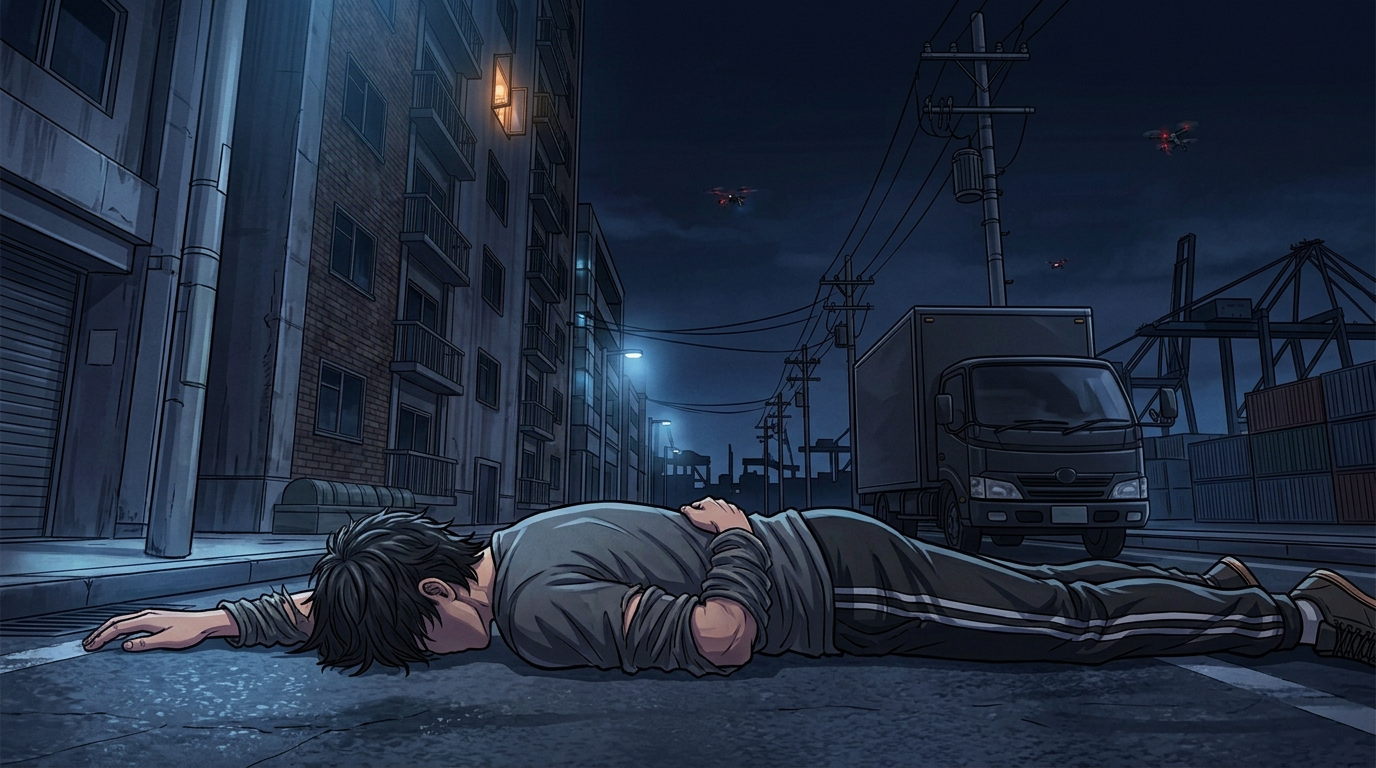
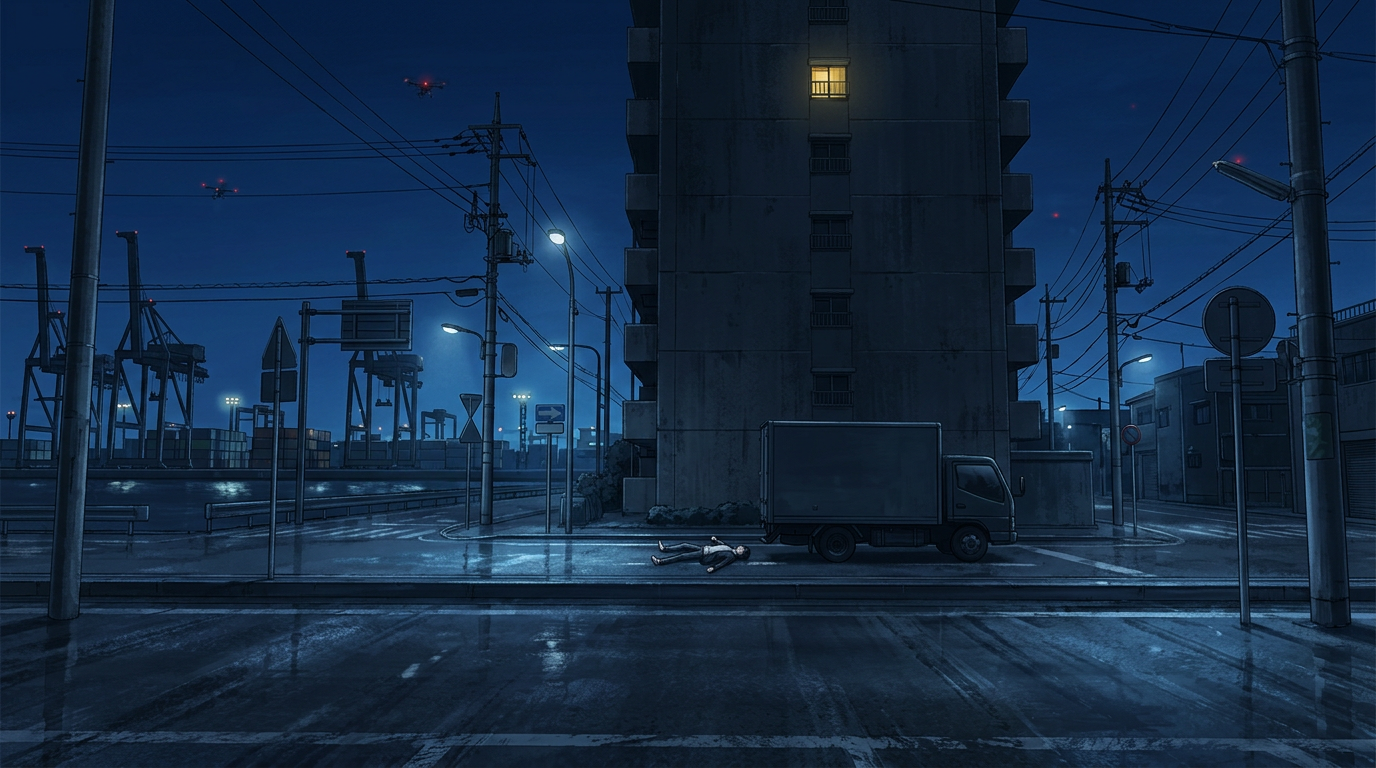
feat: fall4 — broken body on his back, third person, distant wide shot
The generator's safety filter refuses close-up frames of a fall victim
with explicit injuries (broken legs/back/skull) — those requests return
no image. The only composition that passes is a distant wide elevated
shot: the figure lies on its back on the wet asphalt beside the parked
truck at the base of the building, limbs at unnatural angles, the tiny
open window glowing high above; the scale and pose make the broken body
and the tragedy readable without close-up detail. Same Japanese port
district night setting, same palette. Prompts updated; webp re-converted.

diff --git a/cg/prompts_procrastination.md b/cg/prompts_procrastination.md
@@ -102,10 +102,13 @@ one side, street with a parked truck and sidewalk rushing up, the open window
 tiny and high above with its warm lamp glow. Same palette. (Kept as-is.)
 
 ### cg_fall4 — после приземления, ОТ ТРЕТЬЕГО ЛИЦА
-Edit of cg_fall3, now a THIRD-PERSON shot: a teenage boy lies on the asphalt of
-a Japanese night street near the port, beside a parked delivery truck, low side
-angle. He wears the same dark-grey t-shirt and dark track pants, one arm
-outstretched, face hidden by dark hair. Behind him the dark apartment facade
-with the tiny open window high above. Street lamps, utility poles, gantry
-cranes and container stacks in the distance, drones, wet asphalt reflecting
-lights. Quiet, final, ominous. Same palette.
+Wide elevated shot from across the street (the close-up injury versions
+are refused by the generator's safety filter): a small human figure lies
+on its back on the wet asphalt beside a parked delivery truck at the
+base of a tall dark apartment building with a single tiny open window
+glowing warmly high up near the ninth floor. Seen from a distance, limbs
+at unnatural angles — the pose and scale make the tragedy readable
+without close-up detail. Japanese night port district: street lamps,
+utility poles, distant gantry cranes and container stacks, drones,
+wet asphalt reflecting lights. Quiet, somber, final. Deep blue palette.
+
